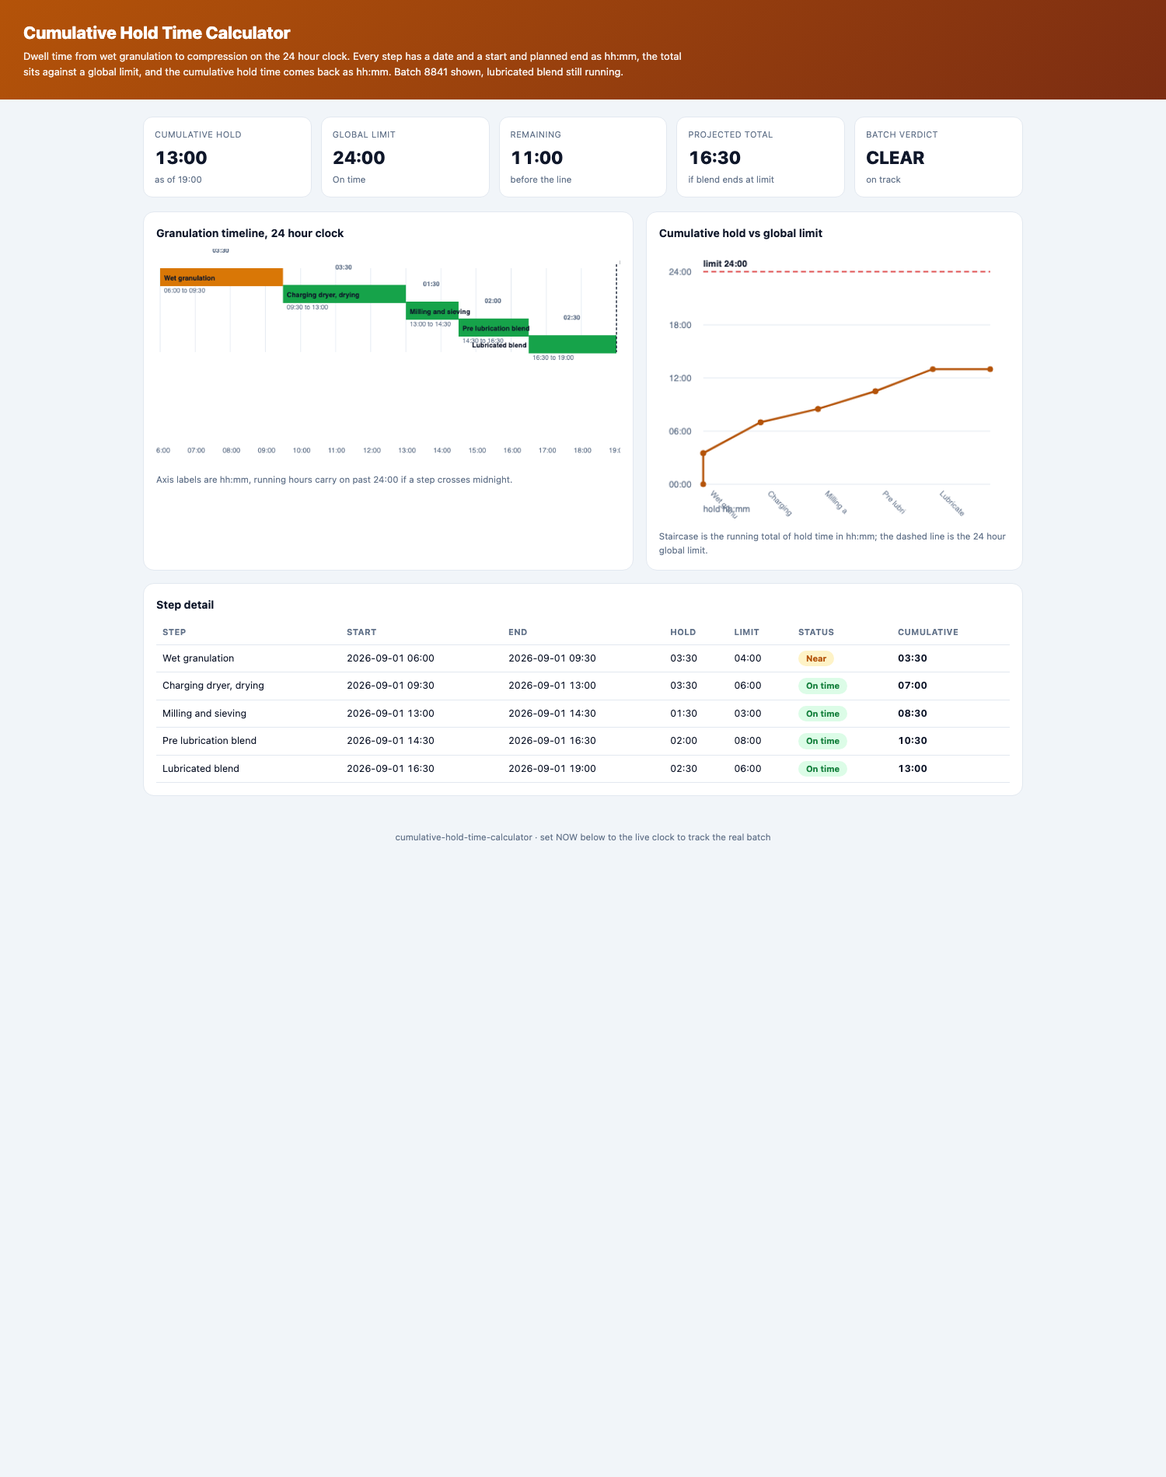
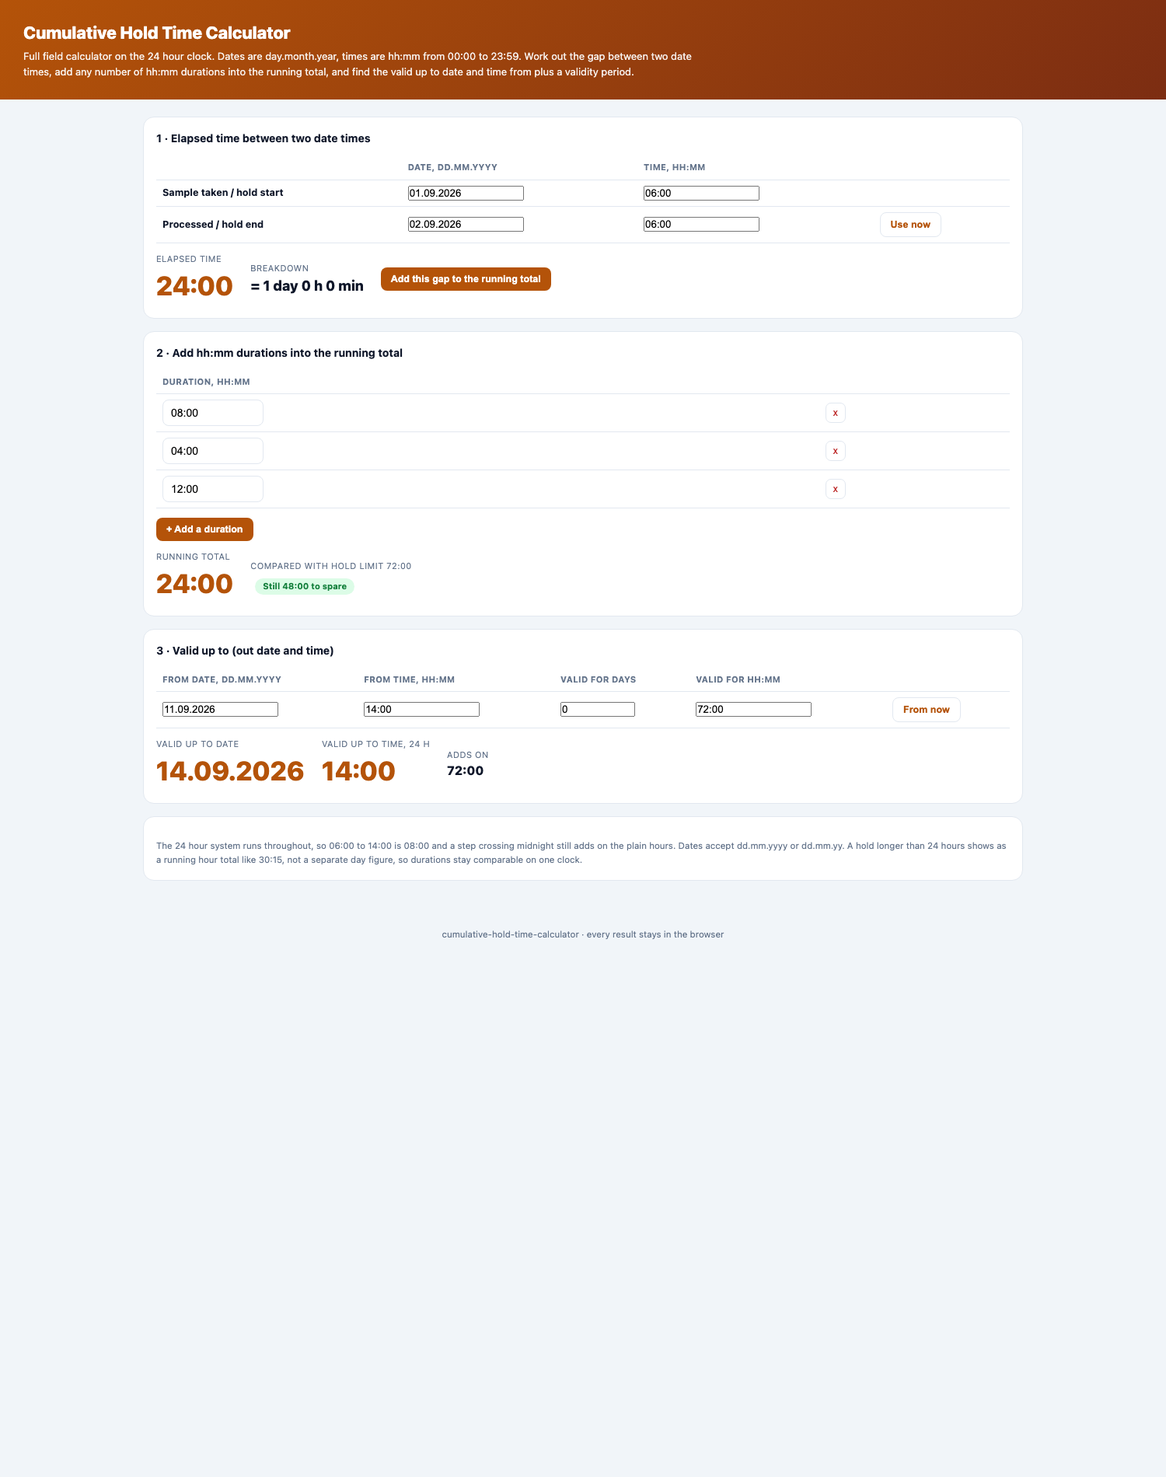
Turn hold time into a full field calculator

diff --git a/index.html b/index.html
@@ -10,171 +10,199 @@
   body{font-family:-apple-system,BlinkMacSystemFont,"Segoe UI",Roboto,Arial,sans-serif;color:var(--ink);background:#f1f5f9;line-height:1.5}
   header{background:linear-gradient(135deg,#b45309,#7c2d12);color:#fff;padding:26px 30px}
   header h1{font-size:22px;font-weight:800}
-  header p{font-size:13px;opacity:.92;margin-top:4px;max-width:860px}
+  header p{font-size:13px;opacity:.92;margin-top:4px;max-width:900px}
   .wrap{max-width:1180px;margin:0 auto;padding:22px 24px}
-  .kpis{display:grid;grid-template-columns:repeat(auto-fit,minmax(170px,1fr));gap:12px;margin-bottom:18px}
-  .kpi{background:var(--card);border:1px solid var(--line);border-radius:12px;padding:14px}
-  .kpi .lb{font-size:11px;color:var(--muted);text-transform:uppercase;letter-spacing:.04em}
-  .kpi .vl{font-size:23px;font-weight:800;margin-top:4px;font-variant-numeric:tabular-nums}
-  .kpi .sub{font-size:11.5px;color:var(--muted);margin-top:2px}
-  .grid{display:grid;grid-template-columns:1.3fr 1fr;gap:16px}
-  @media(max-width:900px){.grid{grid-template-columns:1fr}}
-  .panel{background:var(--card);border:1px solid var(--line);border-radius:14px;padding:16px}
-  .panel h3{font-size:14px;font-weight:700;margin-bottom:10px}
+  .panel{background:var(--card);border:1px solid var(--line);border-radius:14px;padding:16px;margin-bottom:16px}
+  .panel h3{font-size:14px;font-weight:700;margin-bottom:12px}
   table{width:100%;border-collapse:collapse;font-size:12.5px}
   th,td{text-align:left;padding:7px 8px;border-bottom:1px solid var(--line);font-variant-numeric:tabular-nums}
   th{color:var(--muted);font-size:11px;text-transform:uppercase;letter-spacing:.03em}
-  .chip{display:inline-block;border-radius:999px;padding:2px 10px;font-size:11px;font-weight:700}
-  .c-ont{background:#dcfce7;color:#15803d}.c-near{background:#fef3c7;color:#b45309}
-  .c-over{background:#fee2e2;color:#b91c1c}.c-track{background:#eef2f7;color:#475569}
-  canvas{width:100%;height:auto;display:block}
-  .note{font-size:11.5px;color:var(--muted);margin-top:14px;line-height:1.6}
+  .field label{display:block;font-size:11px;color:var(--muted);text-transform:uppercase;letter-spacing:.04em;margin-bottom:4px}
+  .edit input{border:1px solid var(--line);border-radius:8px;padding:8px 10px;font-size:14px;width:130px;font-variant-numeric:tabular-nums}
+  .edit .c-t{width:96px}
+  .del{border:1px solid var(--line);background:#fff;border-radius:7px;padding:5px 9px;cursor:pointer;color:#b91c1c;font-size:12px}
+  .btn{border:none;border-radius:8px;padding:8px 13px;font-size:12.5px;font-weight:700;cursor:pointer;background:#b45309;color:#fff}
+  .btn.ghost{background:#fff;border:1px solid var(--line);color:var(--brand)}
+  .btnrow{display:flex;gap:10px;margin-top:12px;flex-wrap:wrap;align-items:center}
+  .out{display:flex;gap:22px;align-items:center;flex-wrap:wrap;margin-top:12px}
+  .out .big{font-size:34px;font-weight:800}
+  .out .lbl{font-size:11px;color:var(--muted);text-transform:uppercase;letter-spacing:.04em}
+  .chip{display:inline-block;border-radius:999px;padding:2px 10px;font-size:11px;font-weight:700;margin-left:6px}
+  .c-ok{background:#dcfce7;color:#15803d}.c-warn{background:#fef3c7;color:#b45309}.c-over{background:#fee2e2;color:#b91c1c}
+  .note{font-size:11.5px;color:var(--muted);margin-top:12px;line-height:1.6}
+  .err{background:#fee2e2;border:1px solid #fca5a5;color:#b91c1c;border-radius:10px;padding:10px 12px;font-size:12.5px;font-weight:700;margin-top:12px}
   footer{text-align:center;color:var(--muted);font-size:11.5px;padding:22px}
 </style>
 </head>
 <body>
 <header>
   <h1>Cumulative Hold Time Calculator</h1>
-  <p>Dwell time from wet granulation to compression on the 24 hour clock. Every step has a date and a start and planned end as hh:mm, the total sits against a global limit, and the cumulative hold time comes back as hh:mm. Batch 8841 shown, lubricated blend still running.</p>
+  <p>Full field calculator on the 24 hour clock. Dates are day.month.year, times are hh:mm from 00:00 to 23:59. Work out the gap between two date times, add any number of hh:mm durations into the running total, and find the valid up to date and time from plus a validity period.</p>
 </header>
 <div class="wrap">
-  <div class="kpis" id="kpis"></div>
-  <div class="grid">
-    <div class="panel">
-      <h3>Granulation timeline, 24 hour clock</h3>
-      <canvas id="cv1" width="720" height="330"></canvas>
-      <div class="note">Axis labels are hh:mm, running hours carry on past 24:00 if a step crosses midnight.</div>
+  <div class="panel">
+    <h3>1 &middot; Elapsed time between two date times</h3>
+    <table><thead><tr><th></th><th>Date, dd.mm.yyyy</th><th>Time, hh:mm</th><th></th></tr></thead>
+    <tbody>
+      <tr><td><b>Sample taken / hold start</b></td>
+        <td><input id="e1d" class="c-d" value="01.09.2026"></td>
+        <td><input id="e1t" class="c-t" value="06:00"></td>
+        <td><button id="nowStart" style="visibility:hidden"></button></td></tr>
+      <tr><td><b>Processed / hold end</b></td>
+        <td><input id="e2d" class="c-d" value="02.09.2026"></td>
+        <td><input id="e2t" class="c-t" value="06:00"></td>
+        <td><button id="nowEnd" class="btn ghost">Use now</button></td></tr>
+    </tbody></table>
+    <div class="out">
+      <div><div class="lbl">Elapsed time</div><div class="big" id="eRes" style="color:#b45309">24:00</div></div>
+      <div><div class="lbl">Breakdown</div><div class="big" id="eBrk" style="font-size:18px;color:var(--ink)">= 1 day 0 h 0 min</div></div>
+      <div><button id="addToTotal" class="btn">Add this gap to the running total</button></div>
     </div>
-    <div class="panel">
-      <h3>Cumulative hold vs global limit</h3>
-      <canvas id="cv2" width="430" height="330"></canvas>
-      <div class="note">Staircase is the running total of hold time in hh:mm; the dashed line is the 24 hour global limit.</div>
+    <div class="err" id="eErr" style="display:none"></div>
+  </div>
+
+  <div class="panel">
+    <h3>2 &middot; Add hh:mm durations into the running total</h3>
+    <table><thead><tr><th>Duration, hh:mm</th><th></th></tr></thead>
+    <tbody id="addTbl"></tbody></table>
+    <div class="btnrow">
+      <button id="addRow" class="btn">+ Add a duration</button>
+    </div>
+    <div class="out">
+      <div><div class="lbl">Running total</div><div class="big" id="sumRes" style="color:#b45309">00:00</div></div>
+      <div><div class="lbl">Compared with hold limit 72:00</div>
+        <div style="margin-top:4px" id="sumChip"><span class="chip c-ok">On time</span></div></div>
     </div>
   </div>
-  <div class="panel" style="margin-top:16px">
-    <h3>Step detail</h3>
-    <table><thead><tr><th>Step</th><th>Start</th><th>End</th><th>Hold</th><th>Limit</th><th>Status</th><th>Cumulative</th></tr></thead>
-    <tbody id="rows"></tbody></table>
+
+  <div class="panel">
+    <h3>3 &middot; Valid up to (out date and time)</h3>
+    <table><thead><tr><th>From date, dd.mm.yyyy</th><th>From time, hh:mm</th><th>Valid for days</th><th>Valid for hh:mm</th><th></th></tr></thead>
+    <tbody><tr><td><input id="v1d" class="c-d" value="11.09.2026"></td>
+      <td><input id="v1t" class="c-t" value="14:00"></td>
+      <td><input id="vDays" type="number" min="0" step="1" value="0" style="width:96px"></td>
+      <td><input id="vHh" class="c-t" value="72:00"></td>
+      <td><button id="nowFrom" class="btn ghost">From now</button></td></tr></tbody></table>
+    <div class="out">
+      <div><div class="lbl">Valid up to date</div><div class="big" id="vDate" style="color:#b45309">14.09.2026</div></div>
+      <div><div class="lbl">Valid up to time, 24 h</div><div class="big" id="vTime" style="color:#b45309">14:00</div></div>
+      <div><div class="lbl">Adds on</div><div class="big" id="vAdd" style="font-size:16px;color:var(--ink)">0 day 00:00</div></div>
+    </div>
+    <div class="err" id="vErr" style="display:none"></div>
+  </div>
+
+  <div class="panel">
+    <div class="note">The 24 hour system runs throughout, so 06:00 to 14:00 is 08:00 and a step crossing midnight still adds on the plain hours. Dates accept dd.mm.yyyy or dd.mm.yy. A hold longer than 24 hours shows as a running hour total like 30:15, not a separate day figure, so durations stay comparable on one clock.</div>
   </div>
 </div>
-<footer>cumulative-hold-time-calculator &middot; set NOW below to the live clock to track the real batch</footer>
+<footer>cumulative-hold-time-calculator &middot; every result stays in the browser</footer>
 <script>
-const NOW = "2026-09-01 19:00"; // set to null to use the live clock
-const STEPS=[
-  {name:"Wet granulation",        start:"2026-09-01 06:00", end:"2026-09-01 09:30", limit:4},
-  {name:"Charging dryer, drying", start:"2026-09-01 09:30", end:"2026-09-01 13:00", limit:6},
-  {name:"Milling and sieving",    start:"2026-09-01 13:00", end:"2026-09-01 14:30", limit:3},
-  {name:"Pre lubrication blend",  start:"2026-09-01 14:30", end:"2026-09-01 16:30", limit:8},
-  {name:"Lubricated blend",       start:"2026-09-01 16:30", end:null,               limit:6},
-];
-const GLOBAL=24;
+const pad=n=>String(n).padStart(2,"0");
+function hhmm(min){ const neg=min<0; min=Math.abs(min);
+  const h=Math.floor(min/60),m=min%60; return (neg?"-":"")+pad(h)+":"+pad(m); }
+function parseDate(s){
+  const m=/^(\d{1,2})[.](\d{1,2})[.](\d{2,4})$/.exec(s.trim()); if(!m) return null;
+  let y=+m[3]; if(y<100) y+=2000;
+  const dt=new Date(y,+m[2]-1,+m[1]);
+  if(dt.getFullYear()!==y||dt.getMonth()!==+m[2]-1||dt.getDate()!==+m[1]) return null; return dt; }
+function parseTime(s){
+  const m=/^(\d{1,2}):(\d{2})$/.exec(s.trim()); if(!m) return null;
+  const h=+m[1],mi=+m[2]; if(h>23||mi>59) return null;
+  const t=new Date(0); t.setHours(h,mi,0,0); return t; }
+function parseHhmm(s){
+  const m=/^(\d{1,5}):(\d{2})$/.exec(s.trim()); if(!m) return null;
+  const mi=+m[2]; if(mi>59) return null; return +m[1]*60+mi; }
+function jnDate(ds,ts){ const d=parseDate(ds),t=parseTime(ts);
+  if(!d||!t) return null;
+  return new Date(d.getFullYear(),d.getMonth(),d.getDate(),t.getHours(),t.getMinutes()); }
+function fmtDate(dt){ return pad(dt.getDate())+"."+pad(dt.getMonth()+1)+"."+dt.getFullYear(); }
+function fmtTime(dt){ return pad(dt.getHours())+":"+pad(dt.getMinutes()); }
+function brk(min){ const d=Math.floor(min/1440),h=Math.floor((min%1440)/60),m=min%60;
+  let out=[]; if(d) out.push(d+" day"+(d>1?"s":"")); if(h||d) out.push(h+" h"); out.push(m+" min");
+  return out.join(" "); }
 
-function parseDT(s){ const [d,t]=s.split(" "); const [y,mo,dd]=d.split("-").map(Number);
-  const [h,mi]=t.split(":").map(Number); return new Date(y,mo-1,dd,h,mi); }
-function fmtTime(dt){ return String(dt.getHours()).padStart(2,"0")+":"+String(dt.getMinutes()).padStart(2,"0"); }
-function fmtDT(dt){ return dt.getFullYear()+"-"+String(dt.getMonth()+1).padStart(2,"0")+"-"+String(dt.getDate()).padStart(2,"0")+" "+fmtTime(dt); }
-function fmtH(h){ const m=Math.round(h*60); return String(Math.floor(m/60)).padStart(2,"0")+":"+String(m%60).padStart(2,"0"); }
-function fmtTimeFromMin(m){ return String(Math.floor(m/60)).padStart(2,"0")+":"+String(m%60).padStart(2,"0"); }
+// ---- section 1 : elapsed between two date times
+function elIn(){ return [document.getElementById("e1d").value,document.getElementById("e1t").value,
+  document.getElementById("e2d").value,document.getElementById("e2t").value]; }
+function elRes(o1,o2){ return (o2-o1)/60000; }
+function computeElapsed(){
+  const [d1,t1,d2,t2]=elIn();
+  const o1=jnDate(d1,t1),o2=jnDate(d2,t2);
+  const err=document.getElementById("eErr");
+  if(!o1||!o2){ err.style.display="block"; err.textContent="Check the fields. Dates need dd.mm.yyyy, times need hh:mm on the 24 hour clock.";
+    return null; }
+  if(o2-o1<0){ err.style.display="block"; err.textContent="The processed date and time must come after the taken date and time on the 24 hour clock.";
+    return null; }
+  err.style.display="none";
+  const min=elRes(o1,o2);
+  document.getElementById("eRes").textContent=hhmm(min);
+  document.getElementById("eBrk").textContent="= "+brk(min);
+  return min;
+}
+["e1d","e1t","e2d","e2t"].forEach(id=>document.getElementById(id).addEventListener("input",computeElapsed));
+document.getElementById("nowEnd").addEventListener("click",()=>{
+  const n=new Date(); document.getElementById("e2d").value=fmtDate(n);
+  document.getElementById("e2t").value=fmtTime(n); computeElapsed(); });
 
-const now = NOW? parseDT(NOW) : new Date();
-function stat(d,limit){ if(limit==null) return "Track"; const fr=d/limit;
-  if(fr>=1) return "Over"; if(fr>=0.8) return "Near"; return "On time"; }
-
-let cum=0;
-const rows=STEPS.map(s=>{
-  const start=parseDT(s.start), end=s.end?parseDT(s.end):now;
-  const dur=(end-start)/3600000, limit=s.limit;
-  cum=Math.round((cum+dur)*100)/100;
-  return {name:s.name, start, end, dur:Math.round(dur*100)/100, limit,
-          cumulative:cum, status:stat(dur,limit)};
+// ---- section 2 : sum of hh:mm durations vs 72:00 limit
+const LIMIT=72*60;
+function addSumRow(val){
+  const tr=document.createElement("tr"); tr.className="edit";
+  tr.innerHTML='<td><input class="c-sum" value=""></td><td><button class="del" title="Remove">x</button></td>';
+  tr.querySelector(".c-sum").value=val||"";
+  tr.querySelector(".del").addEventListener("click",()=>{tr.remove();computeSum();});
+  tr.querySelector(".c-sum").addEventListener("input",computeSum);
+  document.getElementById("addTbl").appendChild(tr);
+}
+function computeSum(){
+  let total=0, bad=false, valid=false;
+  document.querySelectorAll(".c-sum").forEach(inp=>{
+    const v=inp.value.trim(); if(!v) return;
+    const m=parseHhmm(v); valid=true;
+    if(m==null){ bad=true; } else total+=m; });
+  const errRow=document.getElementById("sumChip");
+  if(bad){ errRow.innerHTML='<span class="chip c-over">Fix the hh:mm values</span>'; return; }
+  if(!valid){ errRow.innerHTML='<span class="chip c-ok">On time</span>'; }
+  document.getElementById("sumRes").textContent=hhmm(total);
+  if(total>LIMIT){ errRow.innerHTML='<span class="chip c-over">Over by '+hhmm(total-LIMIT)+'</span>'; }
+  else if(total>LIMIT*0.8){ errRow.innerHTML='<span class="chip c-warn">Near, only '+hhmm(LIMIT-total)+' left</span>'; }
+  else { errRow.innerHTML='<span class="chip c-ok">Still '+hhmm(LIMIT-total)+' to spare</span>'; }
+}
+document.getElementById("addRow").addEventListener("click",()=>addSumRow());
+document.getElementById("addToTotal").addEventListener("click",()=>{
+  const min=computeElapsed(); if(min==null) return;
+  addSumRow(hhmm(min));
+  const last=document.querySelector("#addTbl .c-sum:last-of-type"); if(last) last.scrollIntoView({behavior:"smooth",block:"nearest"});
+  computeSum();
 });
-const total=rows[rows.length-1].cumulative;
-const frac=total/GLOBAL;
-const cumStatus= frac>=1?"Over": frac>=0.8?"Near":"On time";
-const remaining=Math.max(0,GLOBAL-total), overBy=Math.max(0,total-GLOBAL);
-const last=STEPS[STEPS.length-1], lastDur=rows[rows.length-1].dur;
-const projected= (!last.end && last.limit!=null)? total+Math.max(0,last.limit-lastDur) : null;
-const excursion= cumStatus==="Over" || rows.some(r=>r.status==="Over");
 
-const statusChip=st=>'<span class="chip c-'+({'On time':'ont',Near:'near',Over:'over',Track:'track'}[st]).toLowerCase()+'">'+st+'</span>';
-const kpis=document.getElementById("kpis");
-kpis.innerHTML =
-  '<div class="kpi"><div class="lb">Cumulative hold</div><div class="vl">'+fmtH(total)+'</div><div class="sub">as of '+fmtTime(now)+'</div></div>'+
-  '<div class="kpi"><div class="lb">Global limit</div><div class="vl">'+fmtH(GLOBAL)+'</div><div class="sub">'+cumStatus+'</div></div>'+
-  '<div class="kpi"><div class="lb">Remaining</div><div class="vl">'+fmtH(remaining)+'</div><div class="sub">before the line</div></div>'+
-  '<div class="kpi"><div class="lb">Projected total</div><div class="vl">'+(projected!=null?fmtH(projected):"--")+'</div><div class="sub">if blend ends at limit</div></div>'+
-  '<div class="kpi"><div class="lb">Batch verdict</div><div class="vl">'+(excursion?"EXCURSION":"CLEAR")+'</div><div class="sub">'+(excursion?"review the deviation":"on track")+'</div></div>';
-
-// timeline
-function timeline(){
-  const cv=document.getElementById("cv1"), x=cv.getContext("2d");
-  const W=cv.width,H=cv.height,padL=6,padR=6,padT=30,padB=38;
-  const plotW=W-padL-padR, bar=28, gap=26;
-  const dayStart=new Date(rows[0].start.getFullYear(), rows[0].start.getMonth(), rows[0].start.getDate(), 0,0);
-  const t0=Math.max(0,(Math.min(...rows.map(r=>r.start))-dayStart)/60000);
-  const t1m=Math.max(t0,(Math.max(...rows.map(r=>r.end))-dayStart)/60000);
-  const span=t1m-t0;
-  const px=m=>padL+(m-t0)/span*plotW;
-  x.strokeStyle="#e2e8f0"; x.fillStyle="#64748b"; x.font="11px sans-serif";
-  for(let m=Math.ceil(t0/60)*60; m<=Math.ceil(t1m/60)*60; m+=60){
-    const lx=px(m);
-    x.beginPath();x.moveTo(lx,padT);x.lineTo(lx,padT+rows.length*gap);x.stroke();
-    x.fillText(fmtTimeFromMin(m),lx-12,H-14);
-  }
-  const col={"On time":"#16a34a",Near:"#d97706",Over:"#dc2626",Track:"#64748b"};
-  rows.forEach((r,i)=>{
-    const y=padT+i*gap, sx=(r.start-dayStart)/60000, ex=(r.end-dayStart)/60000;
-    x.fillStyle=col[r.status];
-    x.fillRect(px(sx),y,px(ex)-px(sx),bar);
-    x.fillStyle="#0f172a"; x.font="700 10.5px sans-serif";
-    x.fillText(r.name, Math.min(px(sx)+6,W-230), y+19);
-    x.fillStyle="#64748b"; x.font="700 10px sans-serif";
-    x.fillText(fmtH(r.dur), px(sx)+(px(ex)-px(sx))/2-14, y-24);
-    x.fillStyle="#64748b"; x.font="10px sans-serif";
-    x.fillText(fmtTime(r.start)+" to "+fmtTime(r.end), px(sx)+6, y+38);
-  });
-  const nx=px((now-dayStart)/60000);
-  x.strokeStyle="#0f172a"; x.lineWidth=1.5; x.setLineDash([4,3]);
-  x.beginPath();x.moveTo(nx,padT-6);x.lineTo(nx,padT+rows.length*gap);x.stroke();
-  x.setLineDash([]); x.fillStyle="#0f172a"; x.font="700 11px sans-serif";
-  x.fillText("now "+fmtTime(now), nx+5, padT-6);
+// ---- section 3 : valid up to
+function computeValid(){
+  const d1=document.getElementById("v1d").value, t1=document.getElementById("v1t").value;
+  const days=parseInt(document.getElementById("vDays").value,10);
+  const hh=document.getElementById("vHh").value;
+  const o=jnDate(d1,t1), mm=parseHhmm(hh);
+  const err=document.getElementById("vErr");
+  if(!o||mm==null||!(days>=0)||Number.isNaN(days)){
+    err.style.display="block";
+    err.textContent="Check the fields. From needs dd.mm.yyyy and hh:mm, days cannot be negative, and the hh:mm part must look like 06:30 or 72:00.";
+    return; }
+  err.style.display="none";
+  const extra=days*1440+mm;
+  const o2=new Date(o.getTime()+extra*60000);
+  document.getElementById("vDate").textContent=fmtDate(o2);
+  document.getElementById("vTime").textContent=fmtTime(o2);
+  document.getElementById("vAdd").textContent=(days?days+" day"+(days>1?"s":"")+" ":"")+hhmm(mm);
 }
-timeline();
+["v1d","v1t","vDays","vHh"].forEach(id=>document.getElementById(id).addEventListener("input",computeValid));
+document.getElementById("nowFrom").addEventListener("click",()=>{
+  const n=new Date(); document.getElementById("v1d").value=fmtDate(n);
+  document.getElementById("v1t").value=fmtTime(n); computeValid(); });
 
-// cumulative chart
-function cumChart(){
-  const cv=document.getElementById("cv2"), x=cv.getContext("2d");
-  const W=cv.width,H=cv.height,padL=54,padR=24,padT=28,padB=42,pw=W-padL-padR,ph=H-padT-padB;
-  x.clearRect(0,0,W,H);
-  const vmax=Math.max(total,GLOBAL,(projected??0));
-  const ymax=Math.ceil(vmax/6)*6;
-  const py=v=>padT+(1-v/ymax)*ph;
-  x.strokeStyle="#e2e8f0"; x.fillStyle="#64748b"; x.font="11px sans-serif";
-  for(let v=0; v<=ymax; v+=6){ const y=py(v);
-    x.beginPath();x.moveTo(padL,y);x.lineTo(W-padR,y);x.stroke();
-    x.fillText(fmtH(v),padL-42,y+4); }
-  const n=rows.length, px=i=>padL+i/(n)*pw;
-  const pts=[[padL,0]]; let acc=0;
-  for(let i=0;i<n;i++){ acc=rows[i].cumulative; pts.push([px(i),acc]); if(i<n-1) pts.push([px(i),acc]); }
-  pts.push([px(n),total]);
-  const ly=py(GLOBAL);
-  x.strokeStyle="#dc2626"; x.lineWidth=1.5; x.setLineDash([6,4]);
-  x.beginPath();x.moveTo(padL,ly);x.lineTo(W-padR,ly);x.stroke();x.setLineDash([]);
-  x.fillStyle="#0f172a"; x.font="700 11px sans-serif"; x.fillText("limit "+fmtH(GLOBAL),padL,ly-6);
-  x.strokeStyle="#b45309"; x.lineWidth=2.5;
-  x.beginPath(); pts.forEach((p,i)=>{ i?x.lineTo(p[0],py(p[1])):x.moveTo(p[0],py(p[1])); }); x.stroke();
-  x.fillStyle="#b45309";
-  pts.forEach(p=>{ x.beginPath();x.arc(p[0],py(p[1]),3.5,0,7);x.fill(); });
-  x.fillStyle="#64748b"; x.font="11px sans-serif"; x.fillText("hold hh:mm",padL,H-8);
-  rows.forEach((r,i)=>{ x.save(); x.translate(px(i)+8,padT+ph+12); x.rotate(Math.PI/4);
-    x.font="9.5px sans-serif"; x.fillText(r.name.slice(0,9),0,0); x.restore(); });
-}
-cumChart();
-
-document.getElementById("rows").innerHTML=rows.map(r=>
-  '<tr><td>'+r.name+'</td><td>'+fmtDT(r.start)+'</td><td>'+fmtDT(r.end)+'</td>'+
-  '<td>'+fmtH(r.dur)+'</td><td>'+(r.limit!=null?fmtH(r.limit):"--")+'</td>'+
-  '<td>'+statusChip(r.status)+'</td><td><b>'+fmtH(r.cumulative)+'</b></td></tr>').join("");
+addSumRow("08:00");
+addSumRow("04:00");
+addSumRow("12:00");
+computeElapsed(); computeSum(); computeValid();
 </script>
 </body>
 </html>

diff --git a/README.md b/README.md
@@ -20,7 +20,15 @@
 
 A granulation batch that sits too long picks up moisture, grows fines, segregates and can drift off spec before anyone notices. Hold time is usually controlled step by step, but the cumulative sitting time is what really matters at compression. This tool takes your step list with start, planned end and a limit per step, adds any still running step evaluated against the current time, and rolls everything into a cumulative total against a global limit. Step status and cumulative status are marked On time, Near at 80%, or Over. If any step or the running total crosses its line, the batch raises an excursion flag for the deviation review.
 
-Every time value is dated, so the clock lives on the 24 hour system at hh:mm and nothing depends on memory of which shift something landed. Start and planned end are written as year, month, day and hh:mm, and the running step honors the time you call it at. Durations, the cumulative total, the remaining allowance and how far over you are all come back in hh:mm, with running hours carrying on past 24:00 if a step crosses midnight.
+Every time value is dated, so the clock lives on the 24 hour system at hh:mm and nothing depends on memory of which shift something landed. Durations, the cumulative total, the remaining allowance and how far over you are all come back in hh:mm, with running hours carrying on past 24:00 if a step crosses midnight.
+
+## Using the dashboard
+
+The page is a field calculator, so you type your own numbers. Dates are day.month.year and times are hh:mm on the 24 hour clock, no AM or PM.
+
+- **Elapsed time:** enter the taken date and time, then the processed date and time, and the tool gives the difference as hh:mm with a breakdown in days, hours and minutes. The Use now button fills the end with the live clock.
+- **Running total:** any number of hh:mm durations can be typed or added onto the list, and the total rolls up live against the 72:00 hold limit, showing the amount still left or how far over you are. An elapsed gap from the first panel can be pushed straight into the running total.
+- **Valid up to:** give a from date and time plus a validity written as days and hh:mm, and the tool returns the valid up to date and the valid up to time on the 24 hour clock. From now fills the start with the live clock.
 
 ## Inputs
 
